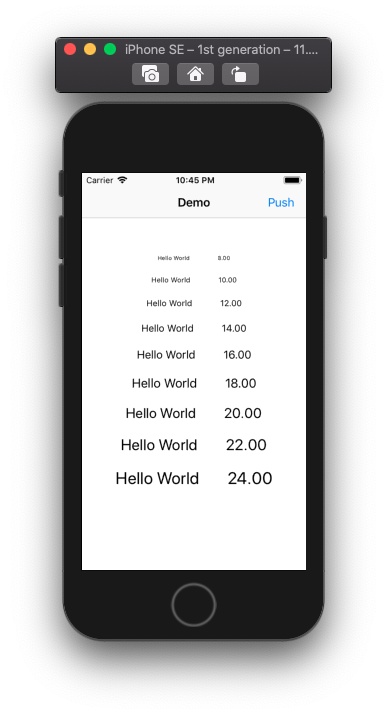
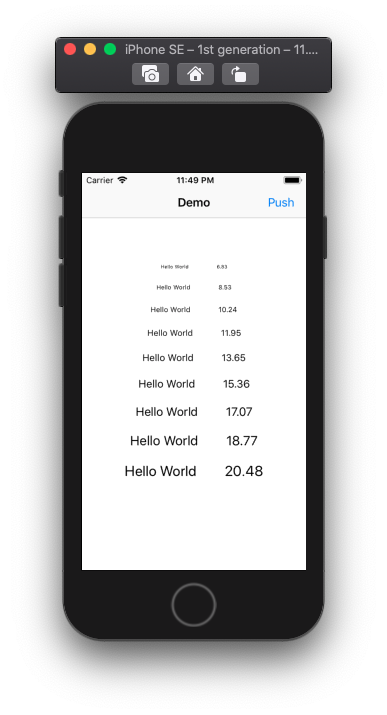
Reference size changed for iPhone SE 1st Gen and updated iPhone 1st Gen Screenshot

Changed region(s): [[0.2791, 0.3385, 0.5271, 0.6769], [0.5581, 0.3385, 0.7132, 0.6769], [0.4651, 0.2462, 0.5581, 0.2769]]

diff --git a/AutoScalableFontsDemo/AppDelegate.swift b/AutoScalableFontsDemo/AppDelegate.swift
@@ -15,7 +15,7 @@ class AppDelegate: UIResponder, UIApplicationDelegate {
     
     func application(_ application: UIApplication, didFinishLaunchingWithOptions launchOptions: [UIApplication.LaunchOptionsKey: Any]?) -> Bool {
         // This makes whole app's label font to scale, including default control fonts like buttons, navigation item title, bar button item title
-        UILabel.initiateScalableFonts(enabled: true, referenceSize: UIScreen.main.bounds.width == 320 ? .size320 : .size375)
+        UILabel.initiateScalableFonts(enabled: true, referenceSize: .size375)
         UITextView.initiateScalableFonts(enabled: true, referenceSize: UIScreen.main.bounds.width == 320 ? .size320 : .size375)
         let label = UILabel()
         label.font = UIFont.systemFont(ofSize: 15)
